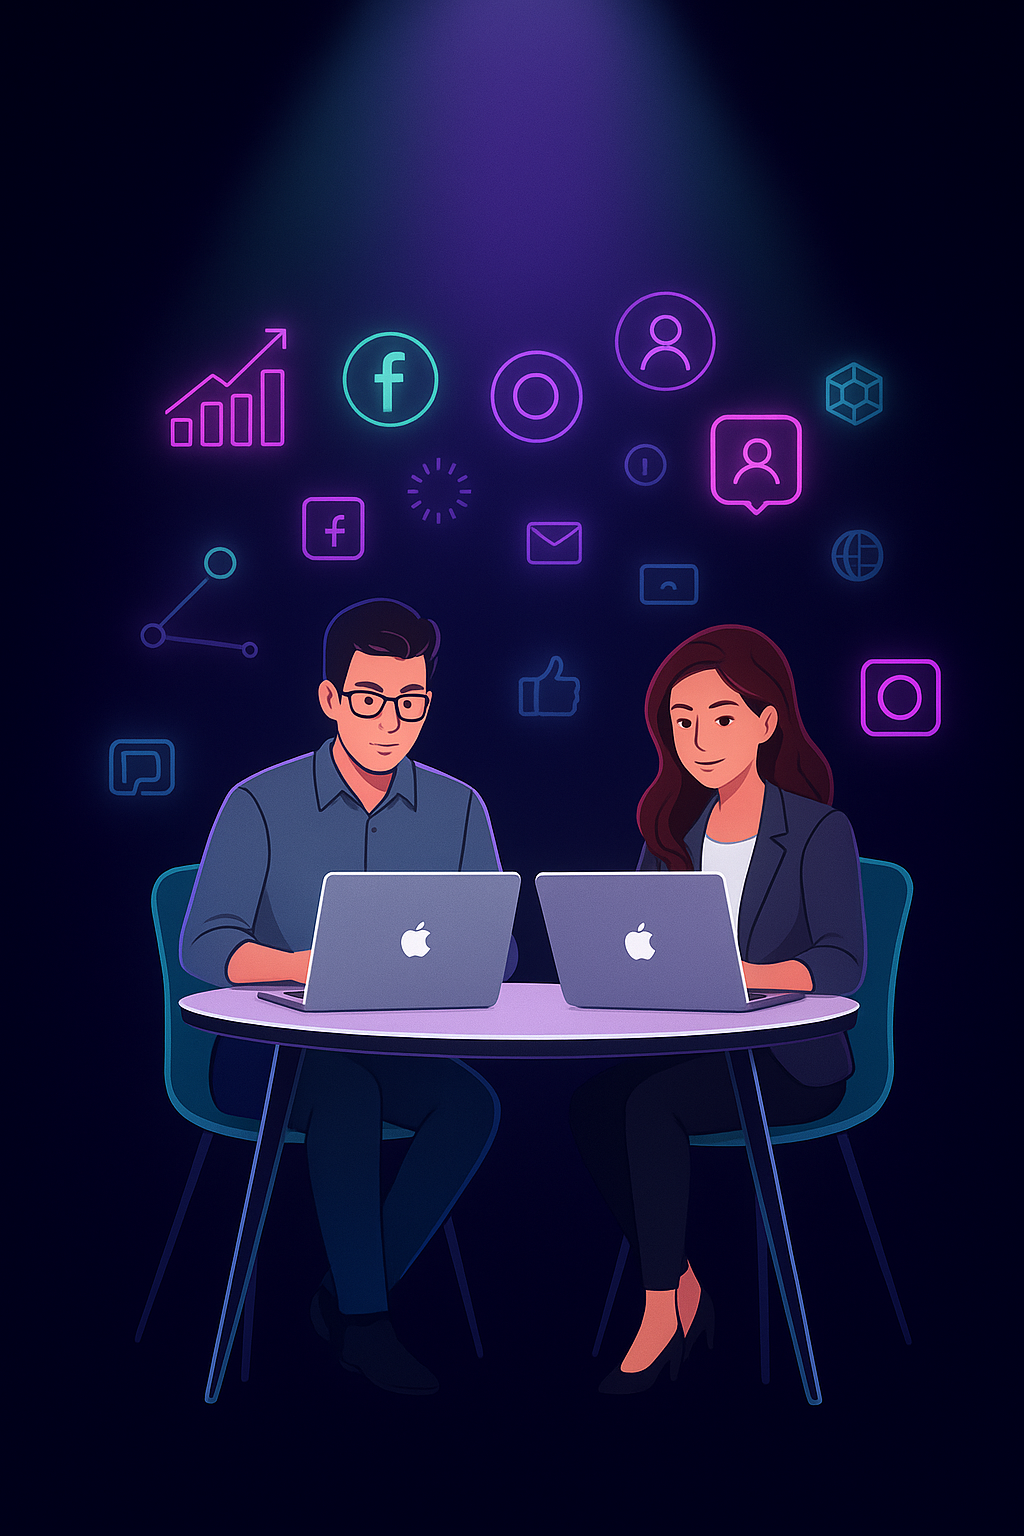
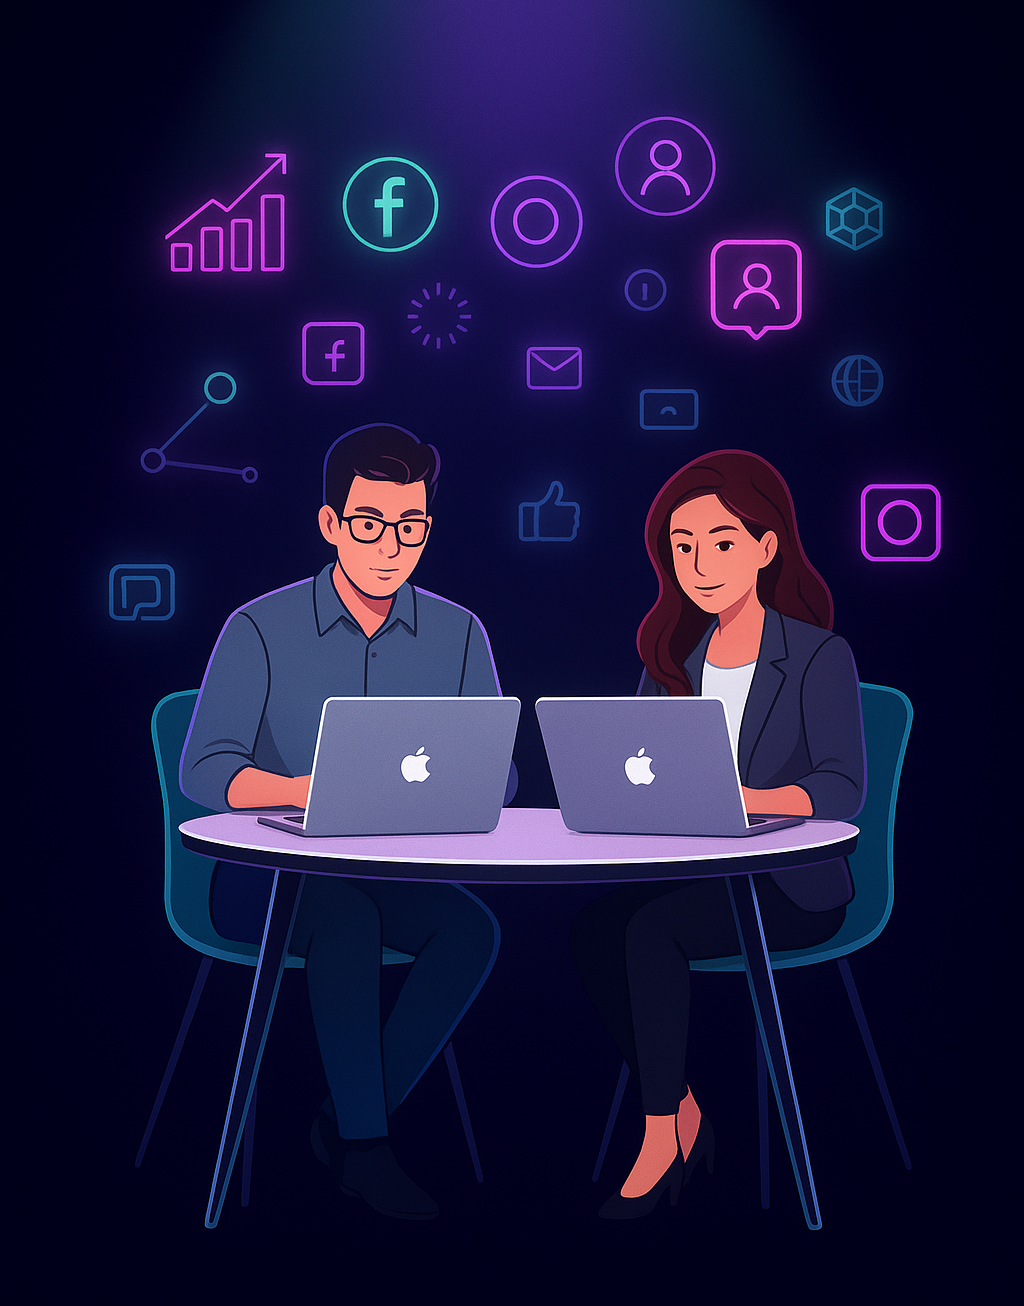
css e html

diff --git a/index.html b/index.html
@@ -56,7 +56,7 @@
 
             </div>
         </div>
-        <img src="./img/imagem 10.PNG " class="img-principal">
+        <img src="./img/imagem 6.png" class="img-principal">
 
     </section>
 
